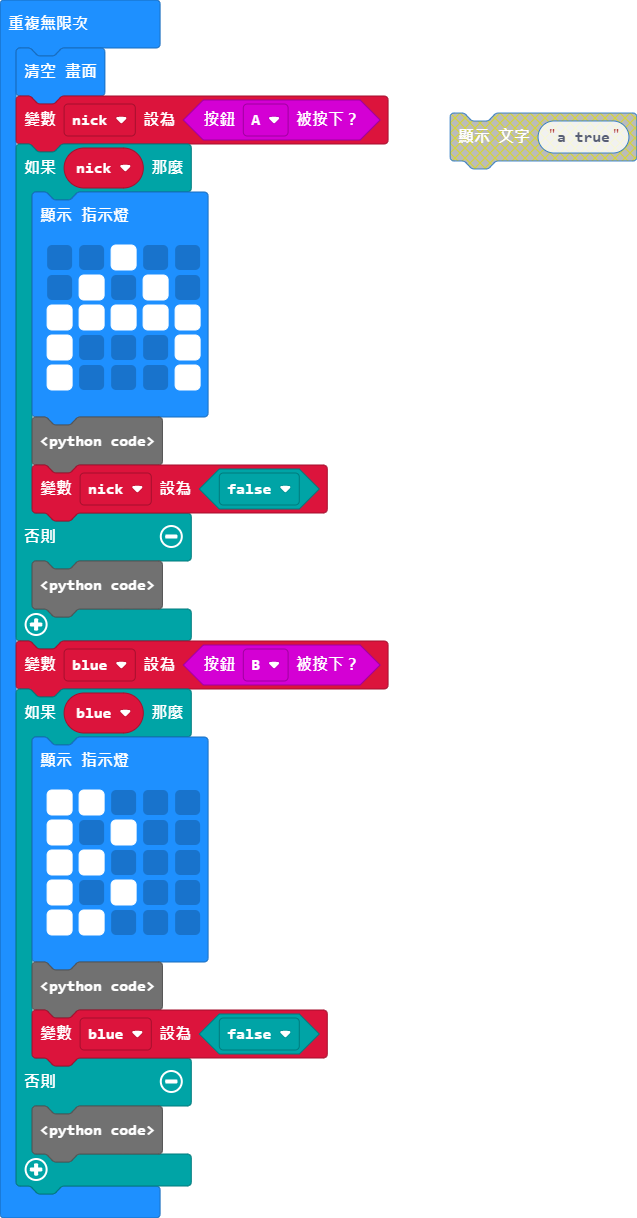
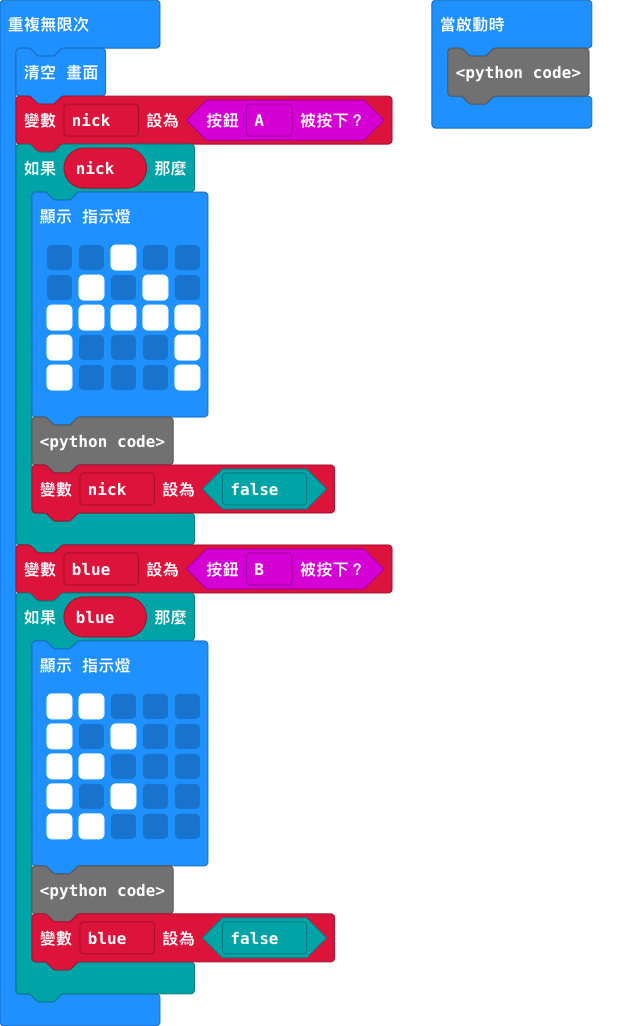
更新 main.blocks, main.ts, main.py

Changed region(s): [[0.0, 0.0, 0.6264, 1.0], [0.6562, 0.0, 1.0, 0.1559], [0.0, 0.9981, 0.0298, 1.0]]

diff --git a/main.ts b/main.ts
@@ -1,5 +1,6 @@
-let nick = false
 let blue = false
+let nick = false
+console.log("on os by nick")
 basic.forever(function () {
     basic.clearScreen()
     nick = input.buttonIsPressed(Button.A)
@@ -13,8 +14,6 @@ basic.forever(function () {
             `)
         console.log("A true")
 nick = false
-    } else {
-        console.log("A false")
     }
     blue = input.buttonIsPressed(Button.B)
     if (blue) {
@@ -27,7 +26,5 @@ nick = false
             `)
         console.log("B true")
 blue = false
-    } else {
-        console.log("B false")
     }
 })

diff --git a/main.py b/main.py
@@ -1,19 +1,30 @@
 nick = False
 blue = False
+print("on os by nick")
 
 def on_forever():
-    global nick
+    global nick, blue
+    basic.clear_screen()
     nick = input.button_is_pressed(Button.A)
     if nick:
-            print("A true")
-            nick = False
-    else:
-        print("A false")
-    global blue
+        basic.show_leds("""
+            . . # . .
+                        . # . # .
+                        # # # # #
+                        # . . . #
+                        # . . . #
+        """)
+        print("A true")
+        nick = False
     blue = input.button_is_pressed(Button.B)
     if blue:
-                    print("B true")
-                    blue = False
-    else:
-                print("B false")
+        basic.show_leds("""
+            # # . . .
+                        # . # . .
+                        # # . . .
+                        # . # . .
+                        # # . . .
+        """)
+        print("B true")
+        blue = False
 basic.forever(on_forever)
